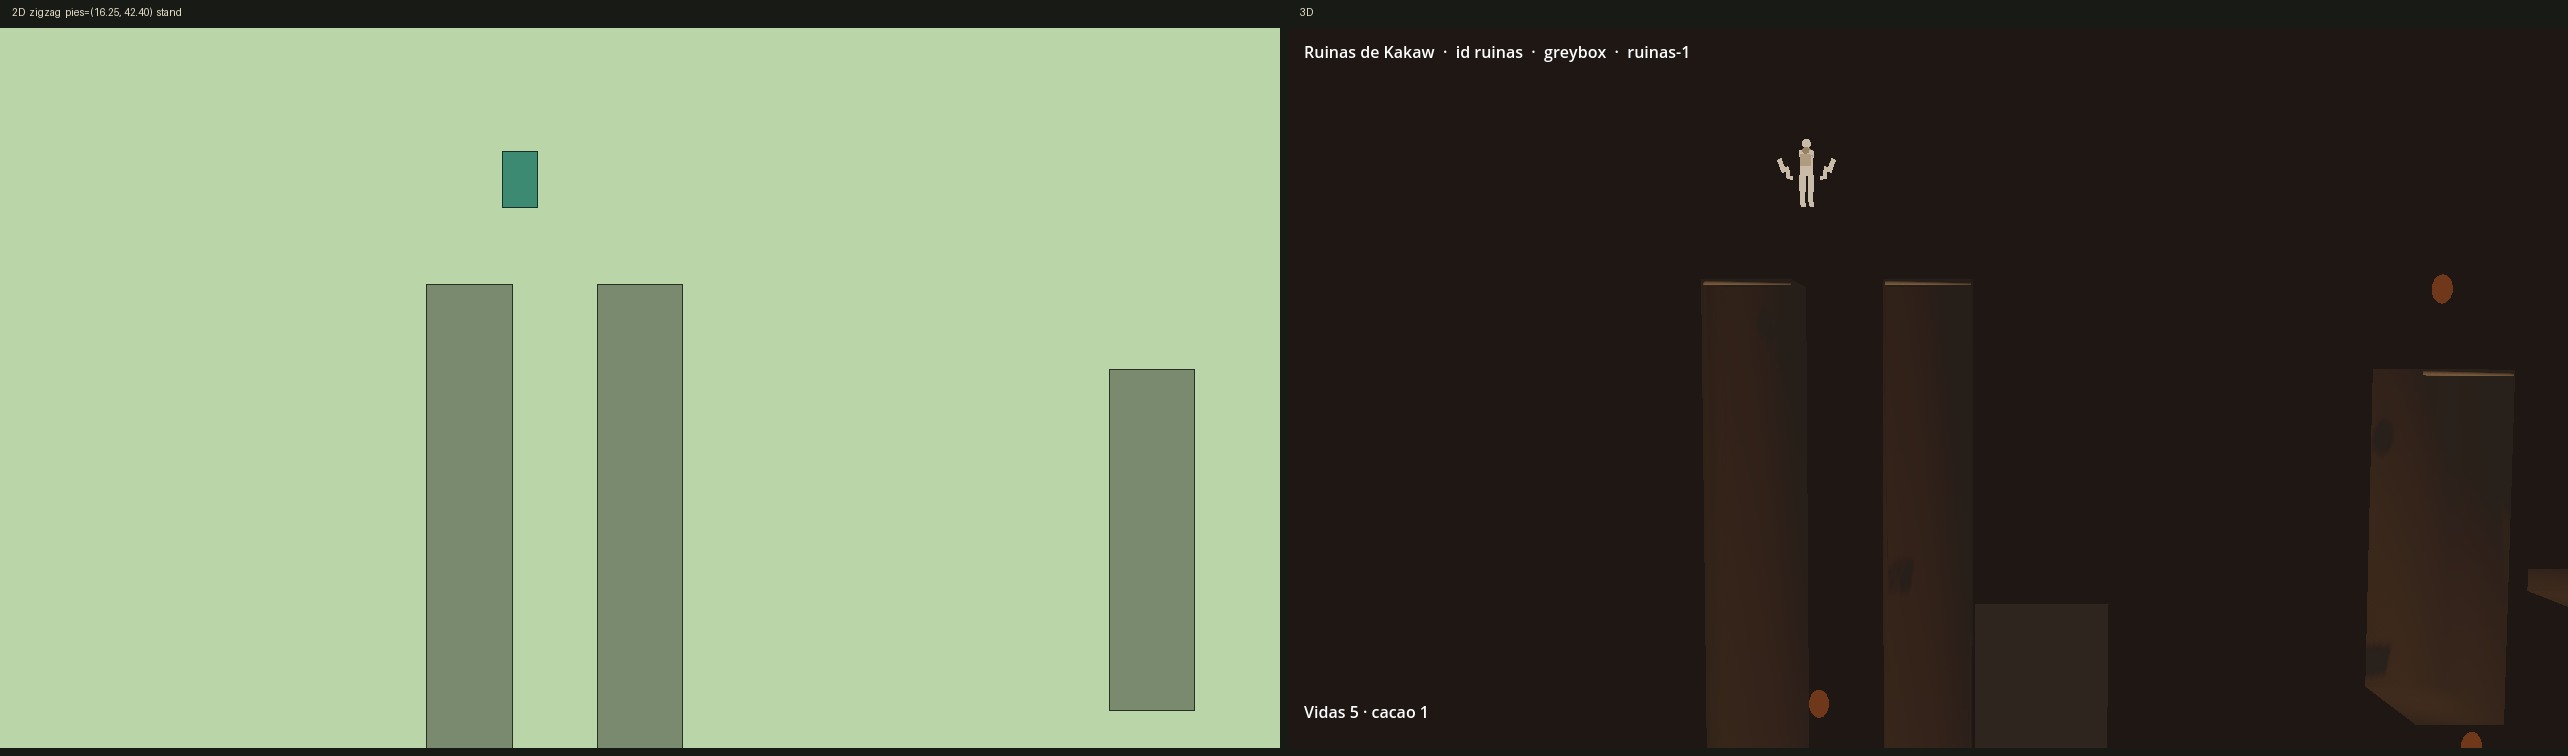
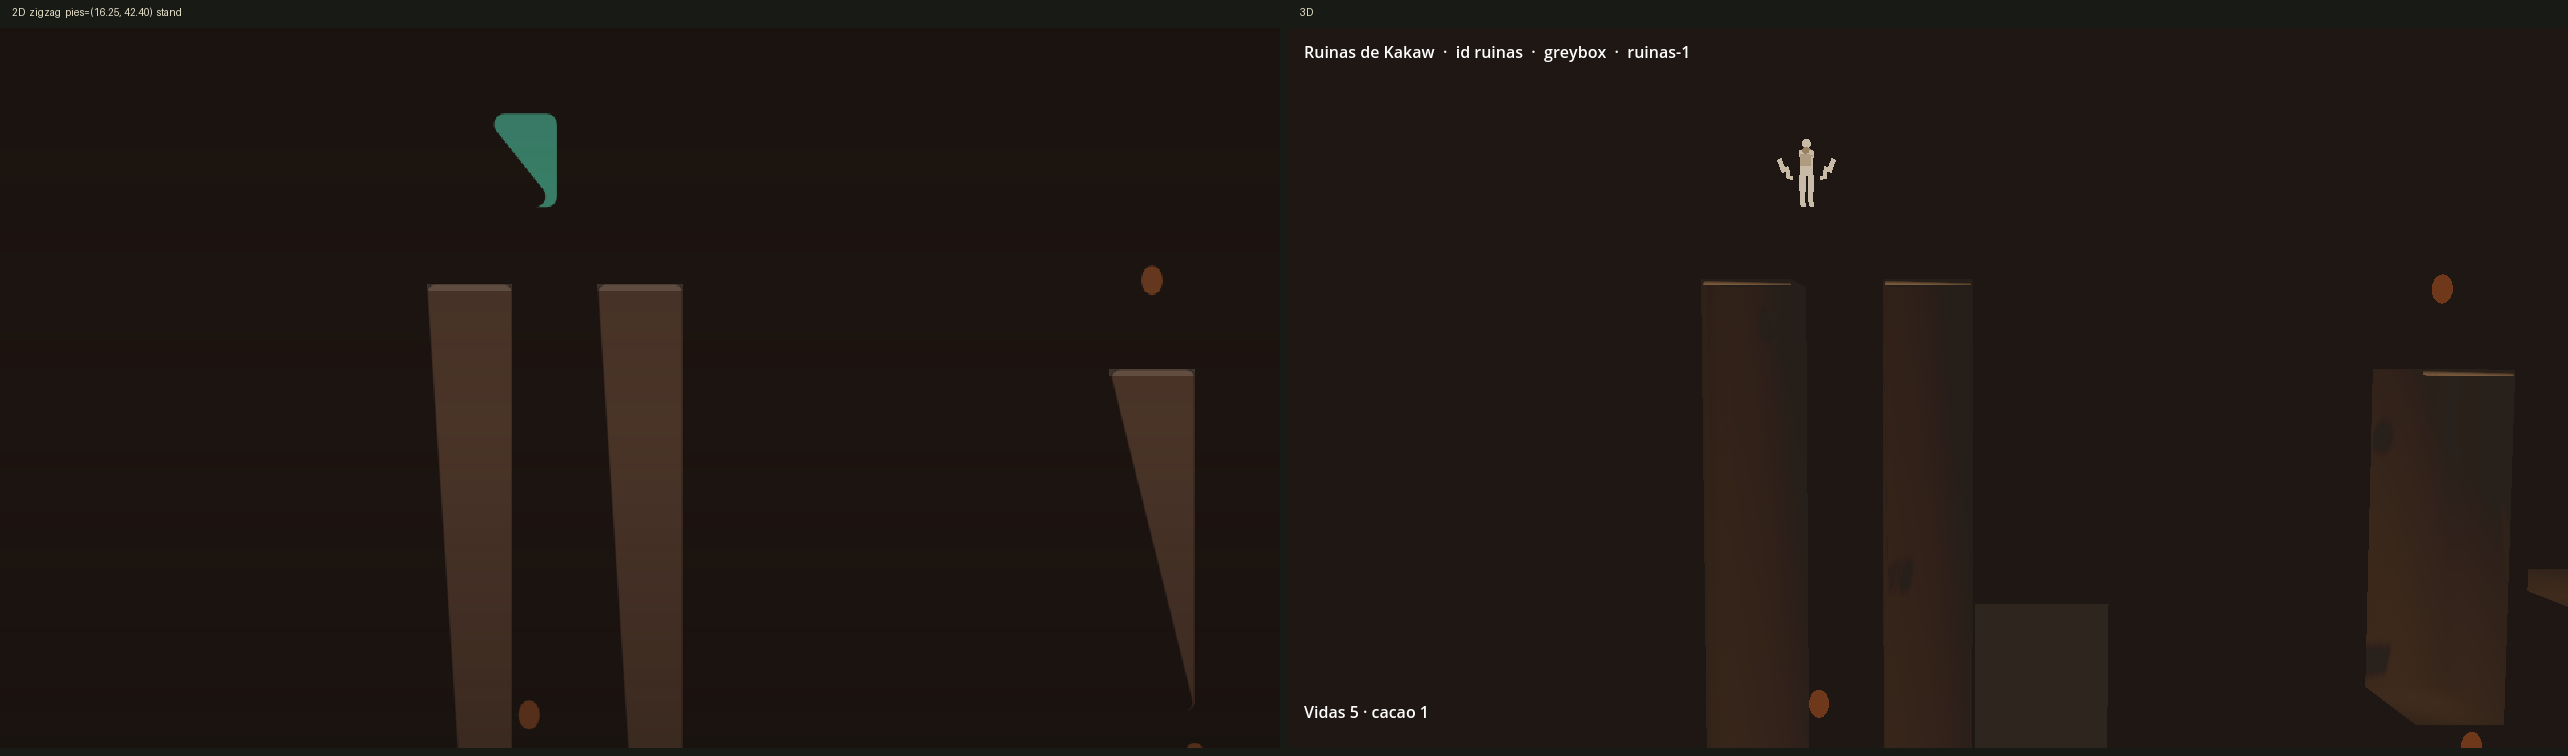
fix(ruinas): body-center lights, renderGame panels, oneway header
Mantle skips one-ways, as the header at pilot_ruinas.gd now says.
Cream fill and rim (cull_mask layer 2) sit on the current body center,
scaled with height, so crouch and prone are not lit at standing height.
Prone body p10 against the stone is 4.50. The 2D halves of cmp_*.png
are renderGame from Cacao.Game@77e55b52; sand-vivid-dawn-sail@5fd45031
is 404 and was not executed.

diff --git a/docs/ruinas/COMPARATIVO_2D_3D.md b/docs/ruinas/COMPARATIVO_2D_3D.md
@@ -4,7 +4,7 @@ Piloto greybox Godot 4.2. Escala **24 px = 1 m**. Y 2D hacia abajo; Y Godot haci
 
 ## Fuente
 
-El pin pedido `NadiaCoelloO/sand-vivid-dawn-sail@5fd45031` no se pudo leer desde aquí (404). El layout y los timings salen de `NadiaCoelloO/Cacao.Game@77e55b5278` `levels.ts` / `sim.ts` (`ruinas-1`, `linkSecrets`, `sitSpikes`, `freeCoins`). QA confirmó que ese pin coincide con lo usado: geometría con 0 faltantes. Los oneways de `selva-1` de ese archivo coinciden con `docs/ONEWAY_DELTA_selva.md`.
+El pin pedido `NadiaCoelloO/sand-vivid-dawn-sail@5fd45031` no se pudo leer ni ejecutar desde aquí (404 en el repo y en la API). `renderGame` sí se ejecutó, desde `NadiaCoelloO/Cacao.Game@77e55b5278` `src/game/render.ts`, con el `ruinas-1` de `levels.ts` de ese mismo commit. El paquete de sprites no se cargó: la función dibuja su geometría propia y Maya con `character.color` `#3d8a72`. No es el esquema de depuración anterior. El layout y los timings de ese archivo (`linkSecrets`, `sitSpikes`, `freeCoins`) son los que QA ya contrastó con el pin: geometría con 0 faltantes. Los oneways de `selva-1` coinciden con `docs/ONEWAY_DELTA_selva.md`.
 
 `jardin-1` y `pichincha-1` no existen en este proyecto. El warp deja un log y devuelve a Maya al último spawn. No congela la escena.
 
@@ -25,7 +25,7 @@ Eso iguala la ventana 2D de 960×540 px (1 m = 32 px, 42 px × 720/540 = 56 px).
 
 ## Tomas
 
-Misma pose en los dos renders. 2D: `renderGame`, 960×540, `camLook = 48`, `time = 0`, escalado nearest a 1280×720. 3D: viewport 1280×720, HUD oculto, 60 frames para asentar el follow y el clampeo. La forma teal del 2D es Maya (`character.color` `#3d8a72` porque el preview no carga sprites). En 3D Maya queda crema, con el fill y el rim de LOOK-001 en la capa 2.
+Misma pose en los dos renders. 2D: `renderGame` ejecutado (ver Fuente), 960×540, `time = 0`, foco asentado con look-ahead de 48 px y el mismo clampeo que la escena, escalado nearest a 1280×720. 3D: viewport 1280×720, HUD oculto. La forma teal del 2D es Maya (`character.color` `#3d8a72`, sin sprites). En 3D Maya queda crema. El fill y el rim (`cull_mask` capa 2) se colocan en el centro del cuerpo actual, con el offset de pie escalado por `_h / _stand_h`, así que en pie siguen en y 1.22 y 1.48.
 
 | id | pies 2D | pies 3D m | nota |
 |---|---|---|---|
@@ -177,11 +177,11 @@ En el 2D los one-way no entran en `solids()`, así que el mantle no los agarra. 
 
 ## Look
 
-Fondo `#1E1714`. Niebla de profundidad `#2C241E` (marrón, no tiñe de verde los muros cercanos). Piedra `#4A382C`, labio `#6B5440`, bisel claro en la arista superior delantera. Sol cenital cálido, energía 0.42, sombras. El verde queda en el pozo: haz corto desde el suelo, lámina emisiva, lianas claras con alpha-scissor (hueco alrededor de x ≈ 17.3) y musgo en la base. La cara cercana de la piedra (la que tapa a Maya) se descarta con dither solo donde cae sobre ella; la colisión no se mueve. Pinchos: triángulos `#C9C4BC` con borde `#2C1810`, sin emisión. Láser: el ancho del hurtbox, 0.4167 m, `#E85A3A` al 0.88, núcleo `#FFF0D2` de 0.125 m. Cacao: óvalo de frente a cámara, el mismo tamaño que la elipse 2D (16×22 px a 540, unos 20×30 px en el patio a 720p), base `#6B3A1F` con un poco de `#C46A3A`. El radio de recogida sigue en 28 px. El pozo tiene un fondo verde entre las lianas. Fill y rim de Maya, `cull_mask` solo de su capa, colores de LOOK-001.
+Fondo `#1E1714`. Niebla de profundidad `#2C241E` (marrón, no tiñe de verde los muros cercanos). Piedra `#4A382C`, labio `#6B5440`, bisel claro en la arista superior delantera. Sol cenital cálido, energía 0.42, sombras. El verde queda en el pozo: haz corto desde el suelo, lámina emisiva, lianas claras con alpha-scissor (hueco alrededor de x ≈ 17.3) y musgo en la base. La cara cercana de la piedra (la que tapa a Maya) se descarta con dither solo donde cae sobre ella; la colisión no se mueve. Pinchos: triángulos `#C9C4BC` con borde `#2C1810`, sin emisión. Láser: el ancho del hurtbox, 0.4167 m, `#E85A3A` al 0.88, núcleo `#FFF0D2` de 0.125 m. Cacao: óvalo de frente a cámara, el mismo tamaño que la elipse 2D (16×22 px a 540, unos 20×30 px en el patio a 720p), base `#6B3A1F` con un poco de `#C46A3A`. El radio de recogida sigue en 28 px. El pozo tiene un fondo verde entre las lianas. Fill y rim de Maya, crema `(1, 0.86, 0.70)`, `cull_mask` solo de su capa. En cuclillas y en arrastre el offset se escala con la altura y apunta al centro del cuerpo de esa pose, no a la altura de pie.
 
 ## Zigzag y arrastre jugados
 
-Misma ventana de cámara (foco clampeado, 40 × 22.5 m). Izquierda: planta 2D del layout. Derecha: viewport 1280×720 del probe.
+Misma ventana de cámara (foco clampeado, 40 × 22.5 m). Izquierda: `renderGame` del pin de Cacao.Game citado arriba, nearest a 1280×720. Derecha: viewport 1280×720. El zigzag y el cuelgue salen del probe (pies zigzag 16.245, 42.402; cuelgue 18.588, 38.591). El arrastre de la derecha es la toma nueva, con las luces ya bajas.
 
 ![zigzag](cmp_zigzag.png)
 
@@ -189,13 +189,18 @@ Misma ventana de cámara (foco clampeado, 40 × 22.5 m). Izquierda: planta 2D de
 
 ![arrastre](cmp_crawl.png)
 
-Secuencias: [zigzag.gif](zigzag.gif), [crawl.gif](crawl.gif).
+Still del arrastre, solo el viewport: [crawl_still.png](crawl_still.png).
+
+Secuencias anteriores (el gif del arrastre es de antes de bajar las luces): [zigzag.gif](zigzag.gif), [crawl.gif](crawl.gif).
+
+En prone (`pose=drag`, pies (28.09, 12.00), `_h` 0.583 m) el fill queda en y local 0.395 y el rim en 0.480, los dos con `cull_mask` 2. En cuclillas (`_h` 1.0 m) quedan en 0.678 y 0.822. El p10 del cuerpo contra el fondo es **4.50**. Luminancia relativa Rec.709, sRGB lineal. El cuerpo son los píxeles que cambian al ocultar a Maya, dentro de su caja en pantalla, sin la sombra (el píxel de la toma no es más oscuro que la placa). El fondo es la mediana de esa placa en los mismos píxeles. El p10 de la luminancia del cuerpo, dividido por esa mediana, tiene que dar ≥ 4.4.
 
 | archivo | sha256 |
 |---|---|
[9 lines of base64/hex data omitted]
 
